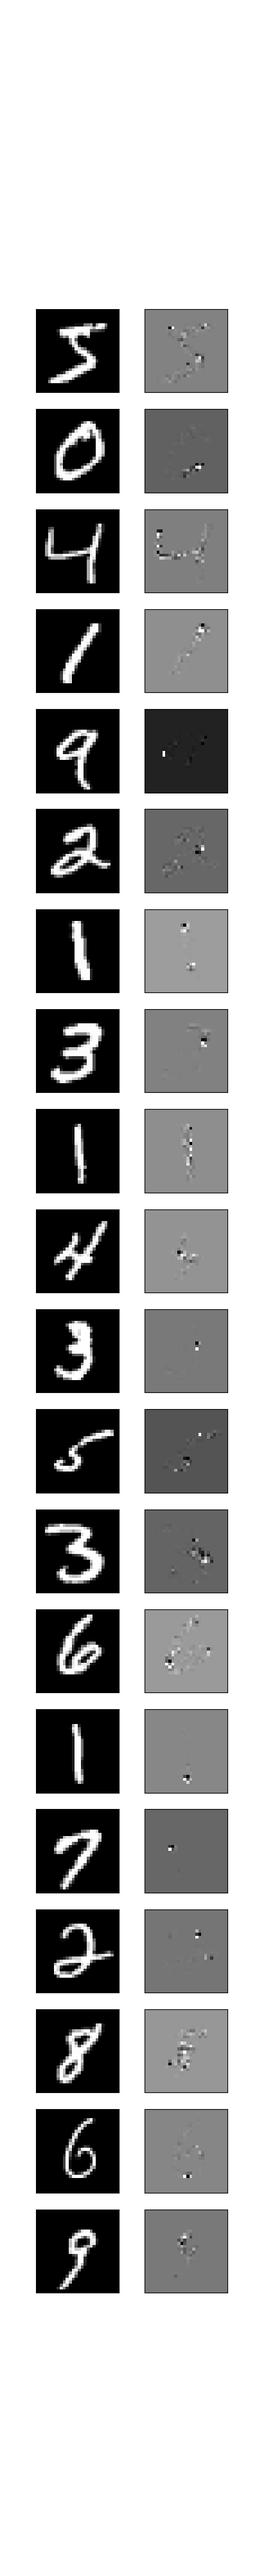
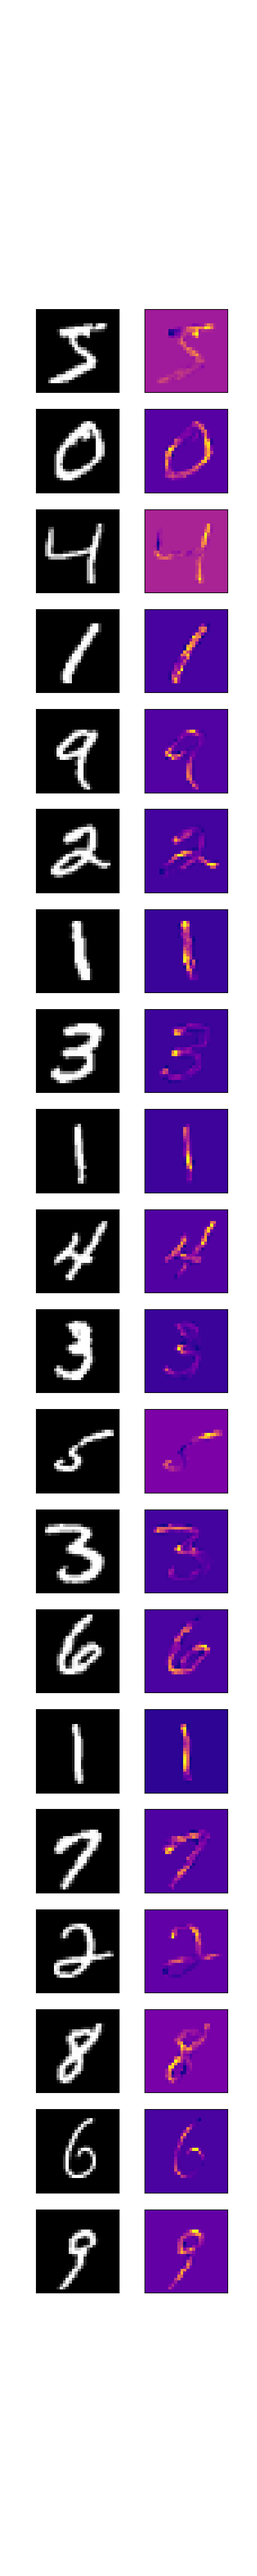
update lrp.py

Changed region(s): [[0.54, 0.0938, 0.9, 0.9062]]

diff --git a/lrp.py b/lrp.py
@@ -40,42 +40,7 @@ class CNN(chainer.Chain):
         return self.l(x)
 
 
-def main():
-    parser = argparse.ArgumentParser(description='Chainer example: MNIST')
-    parser.add_argument('--batch_size', '-b', type=int, default=100,
-                        help='Number of images in each mini-batch')
-    parser.add_argument('--epoch', '-e', type=int, default=20,
-                        help='Number of sweeps over the dataset to train')
-    parser.add_argument('--frequency', '-f', type=int, default=-1,
-                        help='Frequency of taking a snapshot')
-    parser.add_argument('--gpu', '-g', type=int, default=-1,
-                        help='GPU ID (negative value indicates CPU)')
-    parser.add_argument('--output', '-o', default='result',
-                        help='Directory to output the result')
-    parser.add_argument('--resume', '-r', default='',
-                        help='Resume the training from snapshot')
-    parser.add_argument('--unit', '-u', type=int, default=100,
-                        help='Number of units')
-    parser.add_argument('--net', '-n', default="CNN",
-                        help='Name of network')
-    parser.add_argument('--ndim', '-nd', type=int, default=3,
-                        help='Dimensions of inputs')
-    args = parser.parse_args()
-    # import easydict
-    # args = easydict.EasyDict(
-    #     {
-    #         "batch_size":100,
-    #         "epoch":20,
-    #         "gpu":0,
-    #         "output":"result",
-    #         "resume":False,
-    #         "unit":100,
-    #         "frequency":1,
-    #         "net":"MLP",
-    #         "ndim":1
-    #     }
-    # )
-
+def main(args):
     if args.net == "MLP":
         Net = MLP
         args.ndim = 1
@@ -138,7 +103,7 @@ def main():
     return y
 
 
-def LRP(z):
+def LRP(z, epsilon=0):
     creator = z.creator
     var = z
     # relevance value
@@ -156,11 +121,13 @@ def LRP(z):
             w = creator.inputs[1].data
         if creator.label == "LinearFunction":
             print " x:{}\n w:{}\n y:{}\n".format(x.shape, w.shape, y.shape)
-            r = x.reshape(r.shape[0], -1) * (np.dot(r/y, w))
+            _y = y + epsilon*np.sign(y)
+            r = x.reshape(r.shape[0], -1) * (np.dot(r/_y, w))
             print " r {}".format(r.shape)
         elif creator.label == "Convolution2DFunction":
             print " x:{}\n w:{}\n y:{}\n".format(x.shape, w.shape, y.shape)
-            r = x * chainer.functions.deconvolution_2d(r.reshape(y.shape)/y, w).data
+            _y = y + epsilon*np.sign(y)
+            r = x * chainer.functions.deconvolution_2d(r.reshape(y.shape)/_y, w).data
             print " r {}".format(r.shape)
         elif creator.label == "MaxPooling2D":
             print " x:{}\n y:{}\n".format(x.shape, y.shape)
@@ -173,8 +140,46 @@ def LRP(z):
 
 
 if __name__ == '__main__':
-    y = main()
-    res = LRP(y)
+    parser = argparse.ArgumentParser(description='Chainer example: MNIST')
+    parser.add_argument('--batch_size', '-b', type=int, default=100,
+                        help='Number of images in each mini-batch')
+    parser.add_argument('--epoch', '-e', type=int, default=20,
+                        help='Number of sweeps over the dataset to train')
+    parser.add_argument('--epsilon', '-epsilon', type=float, default=0.,
+                        help='Value of epsilon')
+    parser.add_argument('--frequency', '-f', type=int, default=-1,
+                        help='Frequency of taking a snapshot')
+    parser.add_argument('--gpu', '-g', type=int, default=-1,
+                        help='GPU ID (negative value indicates CPU)')
+    parser.add_argument('--output', '-o', default='result',
+                        help='Directory to output the result')
+    parser.add_argument('--resume', '-r', default='',
+                        help='Resume the training from snapshot')
+    parser.add_argument('--unit', '-u', type=int, default=100,
+                        help='Number of units')
+    parser.add_argument('--net', '-n', default="CNN",
+                        help='Name of network')
+    parser.add_argument('--ndim', '-nd', type=int, default=3,
+                        help='Dimensions of inputs')
+    args = parser.parse_args()
+    # import easydict
+    # args = easydict.EasyDict(
+    #     {
+    #         "batch_size":100,
+    #         "epoch":20,
+    #         "epsilon":0,
+    #         "gpu":0,
+    #         "output":"result",
+    #         "resume":False,
+    #         "unit":100,
+    #         "frequency":1,
+    #         "net":"MLP",
+    #         "ndim":1
+    #     }
+    # )
+
+    y = main(args)
+    res = LRP(y, epsilon=args.epsilon)
     c = y.creator
     v = y
     while(c is not None):
@@ -189,8 +194,6 @@ if __name__ == '__main__':
         im = x[i][0]
         axs[i, 0].imshow(im, vmin=im.min(), vmax=im.max(), cmap='gray')
         im = res[i][0]
-        axs[i, 1].imshow(im, vmin=im.min(), vmax=im.max(), cmap='gray')
+        axs[i, 1].imshow(im, vmin=im.min(), vmax=im.max(), cmap='plasma')
     plt.savefig('lrp.png')
     plt.show()
-
-    pass
